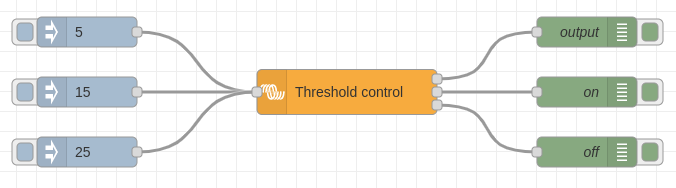
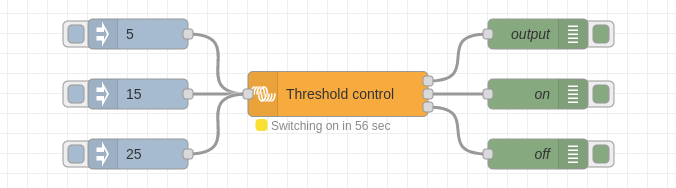
Updated text and example flow

diff --git a/src/nodes/threshold-control.js b/src/nodes/threshold-control.js
@@ -23,13 +23,13 @@ module.exports = function (RED) {
           node.status({
             fill: 'yellow',
             shape: 'dot',
-            text: `Switching in ${counter} sec`
+            text: `Switching ${desiredState} in ${counter} sec`
           })
         } else {
           node.status({
             fill: 'yellow',
             shape: 'ring',
-            text: `Switching in ${counter} sec`
+            text: `Switching ${desiredState} in ${counter} sec`
           })
         }
         if (desiredState === 'on') {
